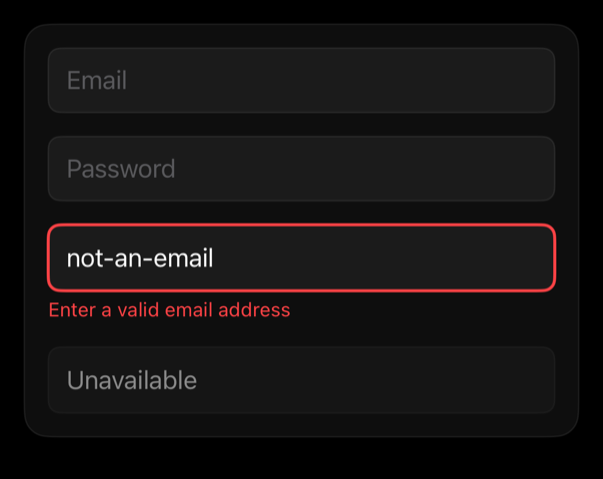
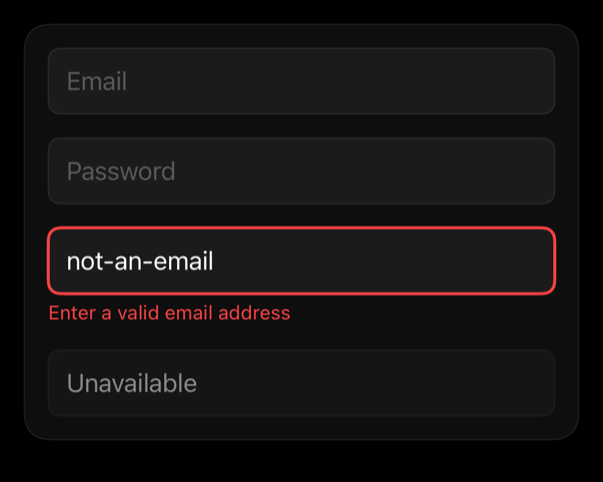
input, input-group: keep the 44 point minimum height and match the field inset
An empty registry text field measured 42.7 points, below RegistryMetrics.minimumHitSize that every sibling field treatment enforces; the style now frames the field at the minimum. InputGroup gains the same vertical inset as the input style so large text no longer touches its border. The preview and usage name the clear button Clear search, bind the amount as a number with a format, label the prefixed field with its currency, and the claims describe focus and invalid precedence as the code has it.

By specifier.

diff --git a/Examples/Showcase/SwiftUIRegistryShowcasePackage/Sources/SwiftUIRegistryShowcaseFeature/RegistryCatalogManifest.swift b/Examples/Showcase/SwiftUIRegistryShowcasePackage/Sources/SwiftUIRegistryShowcaseFeature/RegistryCatalogManifest.swift
@@ -226,7 +226,7 @@ enum RegistryCatalogManifest {
         CatalogEntry(
             name: "input",
             kind: "component",
-            version: "0.4.0",
+            version: "0.5.0",
             description: "Styles native TextField and SecureField controls with semantic fill, focus, disabled, and invalid treatments.",
             usage: "@State private var email = \"\"\n@State private var password = \"\"\n\n// The title is placeholder text to VoiceOver; the explicit label names\n// the field once it holds text.\nTextField(\"Email\", text: $email)\n    .textFieldStyle(.registryInput)\n    .accessibilityLabel(\"Email\")\n\nSecureField(\"Password\", text: $password)\n    .textFieldStyle(.registryInput)\n    .accessibilityLabel(\"Password\")\n\nTextField(\"Email\", text: $email)\n    .textFieldStyle(RegistryInputStyle(isInvalid: true))\n    .accessibilityLabel(\"Email\")\n    .accessibilityHint(\"Enter a valid email address\")",
             dependencies: [],
@@ -235,9 +235,9 @@ enum RegistryCatalogManifest {
         CatalogEntry(
             name: "input-group",
             kind: "component",
-            version: "0.1.0",
+            version: "0.2.0",
             description: "Wraps a native text field with registry input chrome and caller-provided leading and trailing accessories, such as a search symbol and a clear button.",
-            usage: "@State private var query = \"\"\n\nInputGroup {\n    Image(systemName: \"magnifyingglass\")\n        .accessibilityHidden(true)\n} content: {\n    TextField(\"Search transactions\", text: $query)\n        .accessibilityLabel(\"Search transactions\")\n} trailing: {\n    if !query.isEmpty {\n        Button(\"Clear\", systemImage: \"xmark.circle.fill\") { query = \"\" }\n            .labelStyle(.iconOnly)\n            .buttonStyle(.registryGhost)\n            .controlSize(.small)\n    }\n}",
+            usage: "@State private var query = \"\"\n\nInputGroup {\n    Image(systemName: \"magnifyingglass\")\n        .accessibilityHidden(true)\n} content: {\n    TextField(\"Search transactions\", text: $query)\n        .accessibilityLabel(\"Search transactions\")\n} trailing: {\n    if !query.isEmpty {\n        Button(\"Clear search\", systemImage: \"xmark.circle.fill\") { query = \"\" }\n            .labelStyle(.iconOnly)\n            .buttonStyle(.registryGhost)\n            .controlSize(.small)\n    }\n}",
             dependencies: ["button"],
             tags: ["input", "group", "search", "accessory", "text-field", "shadcn"]
         ),

diff --git a/Examples/Showcase/SwiftUIRegistryShowcasePackage/Sources/SwiftUIRegistryShowcaseFeature/Installed/InputGroup.swift b/Examples/Showcase/SwiftUIRegistryShowcasePackage/Sources/SwiftUIRegistryShowcaseFeature/Installed/InputGroup.swift
@@ -42,6 +42,7 @@ public struct InputGroup<Leading: View, Content: View, Trailing: View>: View {
                 .textFieldStyle(.plain)
                 .focused($isFocused)
                 .frame(maxWidth: .infinity)
+                .padding(.vertical, 10)
             trailing
         }
         .padding(.horizontal, theme.metrics.controlHorizontalPadding)
@@ -91,7 +92,7 @@ public extension InputGroup where Trailing == EmptyView {
 
 private struct InputGroupPreview: View {
     @State private var query = ""
-    @State private var amount = "120"
+    @State private var amount = 120.0
 
     var body: some View {
         VStack(spacing: 16) {
@@ -103,7 +104,7 @@ private struct InputGroupPreview: View {
                     .accessibilityLabel("Search transactions")
             } trailing: {
                 if !query.isEmpty {
-                    Button("Clear", systemImage: "xmark.circle.fill") { query = "" }
+                    Button("Clear search", systemImage: "xmark.circle.fill") { query = "" }
                         .labelStyle(.iconOnly)
                         .buttonStyle(.registryGhost)
                         .controlSize(.small)
@@ -114,9 +115,9 @@ private struct InputGroupPreview: View {
                 Text("KWD")
                     .font(.subheadline.weight(.medium))
             } content: {
-                TextField("Amount", text: $amount)
+                TextField("Amount", value: $amount, format: .number)
                     .keyboardType(.decimalPad)
-                    .accessibilityLabel("Amount")
+                    .accessibilityLabel("Amount in KWD")
                     .accessibilityHint("Enter an amount below your daily limit")
             }
         }

diff --git a/Registry/sources/components/InputGroup.swift b/Registry/sources/components/InputGroup.swift
@@ -42,6 +42,7 @@ public struct InputGroup<Leading: View, Content: View, Trailing: View>: View {
                 .textFieldStyle(.plain)
                 .focused($isFocused)
                 .frame(maxWidth: .infinity)
+                .padding(.vertical, 10)
             trailing
         }
         .padding(.horizontal, theme.metrics.controlHorizontalPadding)
@@ -91,7 +92,7 @@ public extension InputGroup where Trailing == EmptyView {
 
 private struct InputGroupPreview: View {
     @State private var query = ""
-    @State private var amount = "120"
+    @State private var amount = 120.0
 
     var body: some View {
         VStack(spacing: 16) {
@@ -103,7 +104,7 @@ private struct InputGroupPreview: View {
                     .accessibilityLabel("Search transactions")
             } trailing: {
                 if !query.isEmpty {
-                    Button("Clear", systemImage: "xmark.circle.fill") { query = "" }
+                    Button("Clear search", systemImage: "xmark.circle.fill") { query = "" }
                         .labelStyle(.iconOnly)
                         .buttonStyle(.registryGhost)
                         .controlSize(.small)
@@ -114,9 +115,9 @@ private struct InputGroupPreview: View {
                 Text("KWD")
                     .font(.subheadline.weight(.medium))
             } content: {
-                TextField("Amount", text: $amount)
+                TextField("Amount", value: $amount, format: .number)
                     .keyboardType(.decimalPad)
-                    .accessibilityLabel("Amount")
+                    .accessibilityLabel("Amount in KWD")
                     .accessibilityHint("Enter an amount below your daily limit")
             }
         }

diff --git a/Examples/Showcase/SwiftUIRegistryShowcasePackage/Sources/SwiftUIRegistryShowcaseFeature/Installed/RegistryInputStyle.swift b/Examples/Showcase/SwiftUIRegistryShowcasePackage/Sources/SwiftUIRegistryShowcaseFeature/Installed/RegistryInputStyle.swift
@@ -20,6 +20,7 @@ public struct RegistryInputStyle: TextFieldStyle {
             .focused($isFocused)
             .padding(.horizontal, theme.metrics.controlHorizontalPadding)
             .padding(.vertical, 10)
+            .frame(minHeight: RegistryMetrics.minimumHitSize)
             .background(theme.surface, in: shape)
             .overlay {
                 shape.stroke(

diff --git a/Registry/sources/components/RegistryInputStyle.swift b/Registry/sources/components/RegistryInputStyle.swift
@@ -20,6 +20,7 @@ public struct RegistryInputStyle: TextFieldStyle {
             .focused($isFocused)
             .padding(.horizontal, theme.metrics.controlHorizontalPadding)
             .padding(.vertical, 10)
+            .frame(minHeight: RegistryMetrics.minimumHitSize)
             .background(theme.surface, in: shape)
             .overlay {
                 shape.stroke(

diff --git a/docs/catalog/input-group.md b/docs/catalog/input-group.md
@@ -45,7 +45,7 @@ InputGroup {
         .accessibilityLabel("Search transactions")
 } trailing: {
     if !query.isEmpty {
-        Button("Clear", systemImage: "xmark.circle.fill") { query = "" }
+        Button("Clear search", systemImage: "xmark.circle.fill") { query = "" }
             .labelStyle(.iconOnly)
             .buttonStyle(.registryGhost)
             .controlSize(.small)
@@ -56,12 +56,12 @@ InputGroup {
 ## Details
 
 - Kind: component
-- Version: 0.1.0
+- Version: 0.2.0
 - Platforms: iOS 26.0+
-- Installs in order: [button](button.md) 0.4.0, [input-group](input-group.md) 0.1.0
+- Installs in order: [button](button.md) 0.4.0, [input-group](input-group.md) 0.2.0
 - Accessibility contract:
   - The field stays a native TextField or SecureField; give it an explicit accessibilityLabel because the title is placeholder text only.
-  - Leading accessories are decorative by default and should be hidden; a trailing button keeps its own label and 44 point hit area.
-  - Focus draws the accent ring and the invalid state draws the negative border at the emphasized width, never color alone because the caller pairs it with a message.
+  - Hide a decorative leading accessory with accessibilityHidden(true); an informational prefix stays visible and the field's accessibilityLabel carries its meaning. A trailing registry button keeps its own label and 44 point hit area.
+  - Focus draws the accent ring; the invalid state draws the negative border at the same emphasized width and wins over focus, so the caller pairs it with a message.
   - Keeps the 44 point minimum height and applies the shared disabled opacity.
 - Source: [sources/components/InputGroup.swift](../../Registry/sources/components/InputGroup.swift), with the `Input Group` Xcode preview

diff --git a/docs/catalog/input.md b/docs/catalog/input.md
@@ -57,13 +57,14 @@ TextField("Email", text: $email)
 ## Details
 
 - Kind: component
-- Version: 0.4.0
+- Version: 0.5.0
 - Platforms: iOS 26.0+
 - Registry dependencies: none
 - Accessibility contract:
   - Give every field an explicit accessibilityLabel matching its visible title. Measured on iOS 27: neither the title initializer nor the label-plus-prompt initializer exposes a label (the title is the placeholder value only), so a field with typed content is otherwise unnamed to VoiceOver; the Showcase demo audit rejects an unlabeled field.
   - Preserves native TextField and SecureField editing, keyboard, and autofill behavior.
-  - Uses focus and border width in addition to color for input states.
+  - Focus draws the accent ring at the emphasized width; the invalid state draws the negative border at the same width and wins over focus, so the caller pairs it with a message.
   - Requires callers to provide visible validation copy and an accessibility hint for invalid input.
   - Inherits Dynamic Type, layout direction, and enabled state.
+  - Keeps the 44 point minimum height, so an empty field is a full tap target at every text size.
 - Source: [sources/components/RegistryInputStyle.swift](../../Registry/sources/components/RegistryInputStyle.swift), with the `Input States` Xcode preview

diff --git a/docs/catalog/command-search.md b/docs/catalog/command-search.md
@@ -55,7 +55,7 @@ CommandSearch(
 - Kind: block
 - Version: 0.1.0
 - Platforms: iOS 26.0+
-- Installs in order: [button](button.md) 0.4.0, [input-group](input-group.md) 0.1.0, [separator](separator.md) 0.2.0, [badge](badge.md) 0.3.0, [item](item.md) 0.1.1, [kbd](kbd.md) 0.1.0, [empty](empty.md) 0.1.0, [command](command.md) 0.1.0, [command-search](command-search.md) 0.1.0
+- Installs in order: [button](button.md) 0.4.0, [input-group](input-group.md) 0.2.0, [separator](separator.md) 0.2.0, [badge](badge.md) 0.3.0, [item](item.md) 0.1.1, [kbd](kbd.md) 0.1.0, [empty](empty.md) 0.1.0, [command](command.md) 0.1.0, [command-search](command-search.md) 0.1.0
 - Accessibility contract:
   - The search field is labeled with its prompt; commands are native Buttons with combined labels; section titles are headers.
   - No results is a native ContentUnavailableView with caller copy, never a blank surface.

diff --git a/docs/catalog/command.md b/docs/catalog/command.md
@@ -54,7 +54,7 @@ CommandPalette(
 - Kind: component
 - Version: 0.1.0
 - Platforms: iOS 26.0+
-- Installs in order: [button](button.md) 0.4.0, [input-group](input-group.md) 0.1.0, [separator](separator.md) 0.2.0, [badge](badge.md) 0.3.0, [item](item.md) 0.1.1, [kbd](kbd.md) 0.1.0, [empty](empty.md) 0.1.0, [command](command.md) 0.1.0
+- Installs in order: [button](button.md) 0.4.0, [input-group](input-group.md) 0.2.0, [separator](separator.md) 0.2.0, [badge](badge.md) 0.3.0, [item](item.md) 0.1.1, [kbd](kbd.md) 0.1.0, [empty](empty.md) 0.1.0, [command](command.md) 0.1.0
 - Accessibility contract:
   - The search field carries its prompt as an explicit accessibility label and uses the search return key.
   - Section titles are headers; each command is a native Button whose label combines title and detail.

diff --git a/docs/catalog/auth-form.md b/docs/catalog/auth-form.md
@@ -54,7 +54,7 @@ AuthForm(
 - Kind: block
 - Version: 0.3.0
 - Platforms: iOS 26.0+
-- Installs in order: [input](input.md) 0.4.0, [button](button.md) 0.4.0, [card](card.md) 0.2.0, [auth-form](auth-form.md) 0.3.0
+- Installs in order: [input](input.md) 0.5.0, [button](button.md) 0.4.0, [card](card.md) 0.2.0, [auth-form](auth-form.md) 0.3.0
 - Accessibility contract:
   - Both fields carry an explicit accessibilityLabel equal to their visible titles. Measured on iOS 27: the label-plus-prompt initializer alone exposes the title as placeholder text only, so a field with typed content would be unnamed without it.
   - Focus order is identity then password: the identity field submits with a Next return key that moves focus to the password field, and the password return key submits the form.
